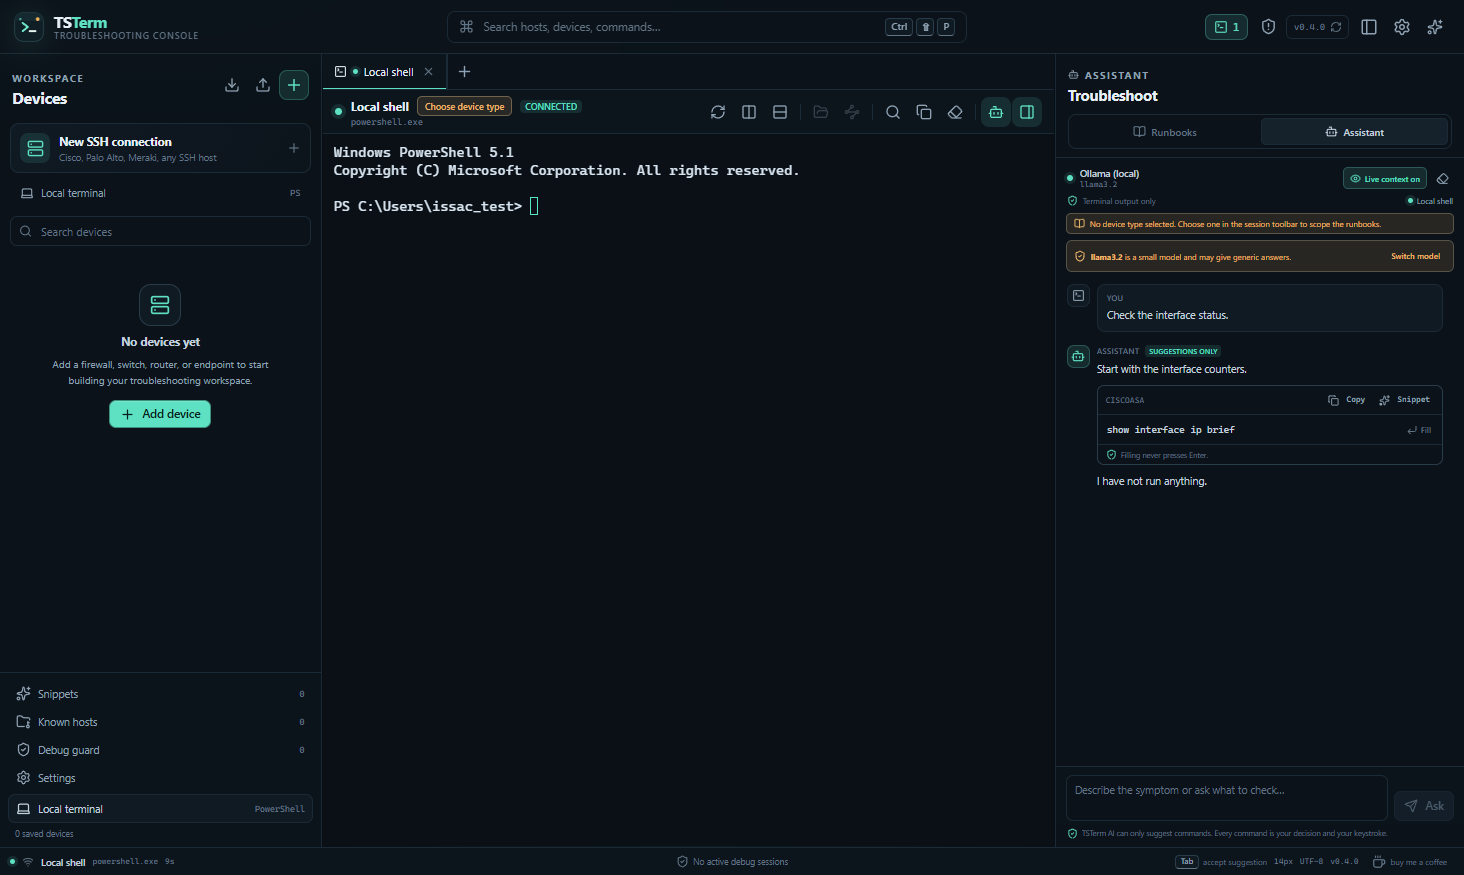
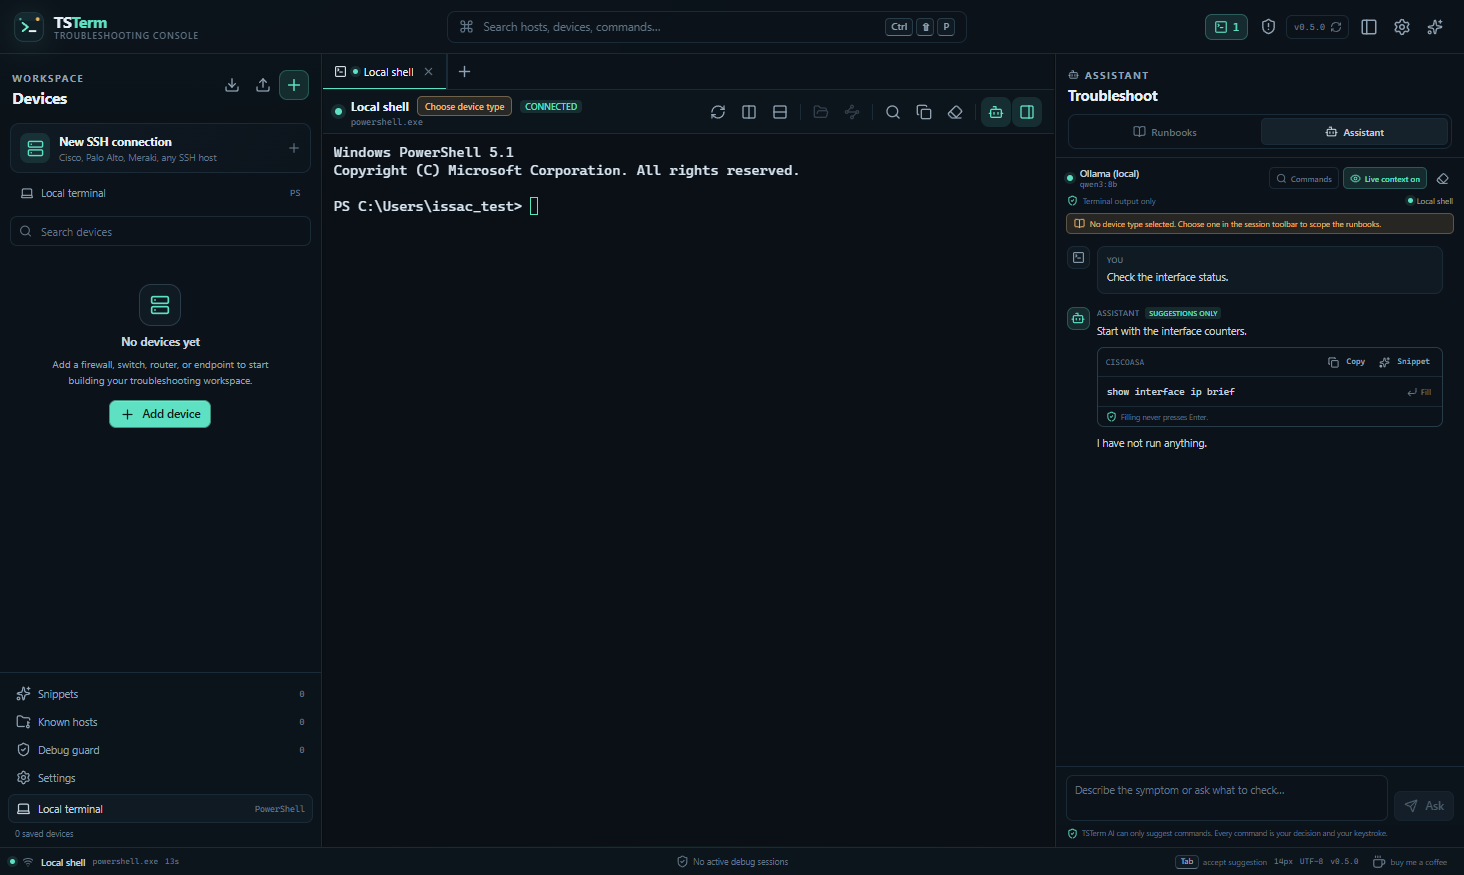
fix: prepare hybrid index when the command browser opens
Move automatic embedding setup out of app startup so it cannot race the main Ollama model pull. Opening the command reference with AI and automatic downloads enabled now checks/pulls nomic-embed-text and builds the curated index; the manual button remains as a retry.

Update the local auto-pull smoke test to the Qwen3 default and refresh docs/screenshots.

Changed region(s): [[0.707, 0.2469, 1.0, 0.5554], [0.8607, 0.1851, 0.9221, 0.216], [0.7377, 0.1851, 0.7684, 0.216]]

diff --git a/src/renderer/src/components/CommandBrowserModal.tsx b/src/renderer/src/components/CommandBrowserModal.tsx
@@ -1,4 +1,4 @@
-import { useEffect, useMemo, useState } from 'react'
+import { useEffect, useMemo, useRef, useState } from 'react'
 import {
   AlertTriangle,
   ArrowUpRight,
@@ -24,7 +24,7 @@ import type {
   CommandStatusResult
 } from '@shared/types'
 import { renderCommand, riskLabel, validateParameter } from '@shared/command-utils'
-import { isSmallModelName } from '@shared/ai-utils'
+import { isLoopbackUrl, isSmallModelName } from '@shared/ai-utils'
 import { activePane, useAppStore } from '../store'
 import {
   fillTerminalPrompt,
@@ -110,6 +110,7 @@ export function CommandBrowserModal(): React.JSX.Element | null {
   const [progress, setProgress] = useState<CommandIndexProgress | null>(null)
   const [building, setBuilding] = useState(false)
   const [error, setError] = useState<string | null>(null)
+  const autoIndexRef = useRef(false)
 
   const profile =
     settings.aiProfiles.find((item) => item.id === settings.aiActiveProfileId) ??
@@ -121,11 +122,69 @@ export function CommandBrowserModal(): React.JSX.Element | null {
   }
 
   useEffect(() => {
-    refreshStatus()
-    return window.tsterm.commands.onIndexProgress((next) => {
+    let cancelled = false
+    const unsubscribe = window.tsterm.commands.onIndexProgress((next) => {
       setProgress(next)
       if (next.phase === 'done') refreshStatus()
     })
+    void window.tsterm.commands
+      .status()
+      .then((current) => {
+        if (cancelled) return
+        setStatus(current)
+        if (current.vectorReady || current.indexing) return
+        if (!settings.aiEnabled || !settings.aiAutoPullLocalModels) return
+        if (!profile?.local || !isLoopbackUrl(profile.baseUrl)) return
+        const isOllama =
+          /11434|ollama/i.test(profile.baseUrl) ||
+          /ollama/i.test(profile.id) ||
+          /ollama/i.test(profile.name)
+        if (!isOllama || autoIndexRef.current) return
+        autoIndexRef.current = true
+        notify({
+          kind: 'info',
+          title: 'Preparing hybrid command search',
+          message: 'Checking the local ASA embedding model…',
+          duration: 5000
+        })
+        void window.tsterm.commands
+          .ensureIndex(profile.id)
+          .then((next) => {
+            if (cancelled) return
+            setStatus(next)
+            if (next.vectorReady) {
+              notify({
+                kind: 'success',
+                title: 'Hybrid command search ready',
+                message: `${next.vectorCount}/${next.vectorTargetCount} fillable ASA commands embedded.`,
+                duration: 6000
+              })
+            } else if (next.vectorError) {
+              notify({
+                kind: 'warning',
+                title: 'Hybrid command search is not ready',
+                message: next.vectorError,
+                duration: 9000
+              })
+            }
+          })
+          .catch((reason: unknown) => {
+            if (cancelled) return
+            notify({
+              kind: 'warning',
+              title: 'Hybrid command search is not ready',
+              message: (reason as Error).message,
+              duration: 9000
+            })
+          })
+      })
+      .catch(() => {
+        // Status is best-effort; the browser still works with BM25.
+      })
+    return () => {
+      cancelled = true
+      unsubscribe()
+    }
   }, [])
 
   useEffect(() => {

diff --git a/src/renderer/src/App.tsx b/src/renderer/src/App.tsx
@@ -1,8 +1,7 @@
-import { useEffect, useRef, useState } from 'react'
+import { useEffect, useState } from 'react'
 import { Panel, PanelGroup, PanelResizeHandle } from 'react-resizable-panels'
 import { AlertTriangle, Loader2 } from 'lucide-react'
 import type { MenuCommand } from '@shared/types'
-import { isLoopbackUrl } from '@shared/ai-utils'
 import { activePane, useAppStore } from './store'
 import {
   closeActiveTab,
@@ -56,7 +55,6 @@ export default function App(): React.JSX.Element {
   const showTroubleshoot = useAppStore((state) => state.showTroubleshoot)
   const tabs = useAppStore((state) => state.tabs)
   const [bootError, setBootError] = useState<string | null>(null)
-  const autoIndexAttempt = useRef<string | null>(null)
 
   useEffect(() => {
     let disposed = false
@@ -191,65 +189,6 @@ export default function App(): React.JSX.Element {
     // Run once per launch after the workspace is ready.
     // eslint-disable-next-line react-hooks/exhaustive-deps
   }, [ready])
-
-  useEffect(() => {
-    if (!ready || !settings.aiEnabled || !settings.aiAutoPullLocalModels) return
-    const profile =
-      settings.aiProfiles.find((item) => item.id === settings.aiActiveProfileId) ??
-      settings.aiProfiles[0]
-    if (!profile?.local || !isLoopbackUrl(profile.baseUrl)) return
-    const isOllama =
-      /11434|ollama/i.test(profile.baseUrl) ||
-      /ollama/i.test(profile.id) ||
-      /ollama/i.test(profile.name)
-    if (!isOllama) return
-    const key = `${profile.id}:${profile.baseUrl}`
-    if (autoIndexAttempt.current === key) return
-    autoIndexAttempt.current = key
-    const notify = useAppStore.getState().notify
-    void window.tsterm.commands
-      .status()
-      .then((current) => {
-        if (current.vectorReady) return
-        notify({
-          kind: 'info',
-          title: 'Preparing hybrid command search',
-          message: 'Checking the local ASA embedding model…',
-          duration: 5000
-        })
-        return window.tsterm.commands.ensureIndex(profile.id).then((next) => {
-          if (next.vectorReady) {
-            notify({
-              kind: 'success',
-              title: 'Hybrid command search ready',
-              message: `${next.vectorCount}/${next.vectorTargetCount} fillable ASA commands embedded.`,
-              duration: 6000
-            })
-          } else if (next.vectorError) {
-            notify({
-              kind: 'warning',
-              title: 'Hybrid command search is not ready',
-              message: next.vectorError,
-              duration: 9000
-            })
-          }
-        })
-      })
-      .catch((error: unknown) => {
-        notify({
-          kind: 'warning',
-          title: 'Hybrid command search is not ready',
-          message: (error as Error).message,
-          duration: 9000
-        })
-      })
-  }, [
-    ready,
-    settings.aiEnabled,
-    settings.aiAutoPullLocalModels,
-    settings.aiActiveProfileId,
-    settings.aiProfiles
-  ])
 
   useEffect(() => {
     const onKeyDown = (event: KeyboardEvent): void => {

diff --git a/README.md b/README.md
@@ -150,10 +150,11 @@ through the Electron main process, so the renderer never receives terminal-execu
 Free chat also retrieves the top five matching command records from the local ASA catalog. Follow-up
 questions such as “why did that fail?” automatically include recent `%ASA-...` syslog IDs and the last
 terminal command in the retrieval query. Runbook matching is partial and stemmed, so natural-language
-questions are not rejected just because one word is missing. When automatic local model downloads are
-enabled, TSTerm also installs `nomic-embed-text` and builds the fillable-command vector index in the
-background. Ollama requests disable thinking tokens with `think: false`; DeepSeek R1 receives a larger
-answer budget, and literal `<think>` blocks are filtered from the stream.
+questions are not rejected just because one word is missing. When you open the command reference with
+automatic local model downloads enabled, TSTerm installs `nomic-embed-text` if needed and builds the
+fillable-command vector index in the background. Ollama requests disable thinking tokens with
+`think: false`; DeepSeek R1 receives a larger answer budget, and literal `<think>` blocks are filtered
+from the stream.
 
 Runbook details include an **Ask AI** action that opens the assistant with that workflow as the topic, so
 you can ask what to verify before and after without retyping the commands.

diff --git a/docs/RELEASE_NOTES_0.5.0.md b/docs/RELEASE_NOTES_0.5.0.md
@@ -37,8 +37,8 @@
   local catalog, not just runbook summaries.
 - Runbook hints use partial, stemmed matching instead of requiring every question word to match.
 - Follow-up retrieval adds `%ASA-...` syslog IDs and the last terminal command from live output.
-- Automatic local setup checks for and pulls `nomic-embed-text`, then builds the 503-record fillable
-  command index in the background when model auto-download is enabled.
+- Opening the command reference with model auto-download enabled checks for and pulls
+  `nomic-embed-text`, then builds the 503-record fillable command index in the background.
 - Ollama chat requests disable Qwen3 thinking with `think: false`; DeepSeek R1 gets a larger answer budget.
 - Literal `<think>` / `<thinking>` blocks are removed from streamed and final text, including tags split
   across chunks.

diff --git a/docs/TESTING.md b/docs/TESTING.md
@@ -160,7 +160,9 @@ node scripts/commands-ui-smoke.mjs
 ```
 
 Set `TSTERM_BUILD_VECTORS=1` to click **Build vector index** and wait for the footer to switch from
-`BM25 only` to `Hybrid · 503/503 curated embedded`. Set `TSTERM_COMMANDS_PACKAGED=1` to run the same checks against
+`BM25 only` to `Hybrid · 503/503 curated embedded`. The same check runs automatically when the command
+browser is opened with AI and automatic local model downloads enabled; the button remains as a manual
+retry. Set `TSTERM_COMMANDS_PACKAGED=1` to run the same checks against
 `release/win-unpacked/TSTerm.exe`. Screenshots are written to `screenshots/commands-*.png`.
 
 The AI routing UI test requires Ollama plus `qwen3:8b`. It presets a temporary profile, asks the real

diff --git a/docs/COMMANDS.md b/docs/COMMANDS.md
@@ -109,8 +109,8 @@ Free chat uses the same local catalog in addition to the runbook hints:
 
 ### Automatic hybrid setup
 
-When the AI assistant is enabled with a local Ollama profile and **Download local models automatically**
-is on, TSTerm:
+When the command reference is opened with the AI assistant enabled, a local Ollama profile, and
+**Download local models automatically** on, TSTerm:
 
 1. checks for `nomic-embed-text`,
 2. pulls it through Ollama if it is missing,
